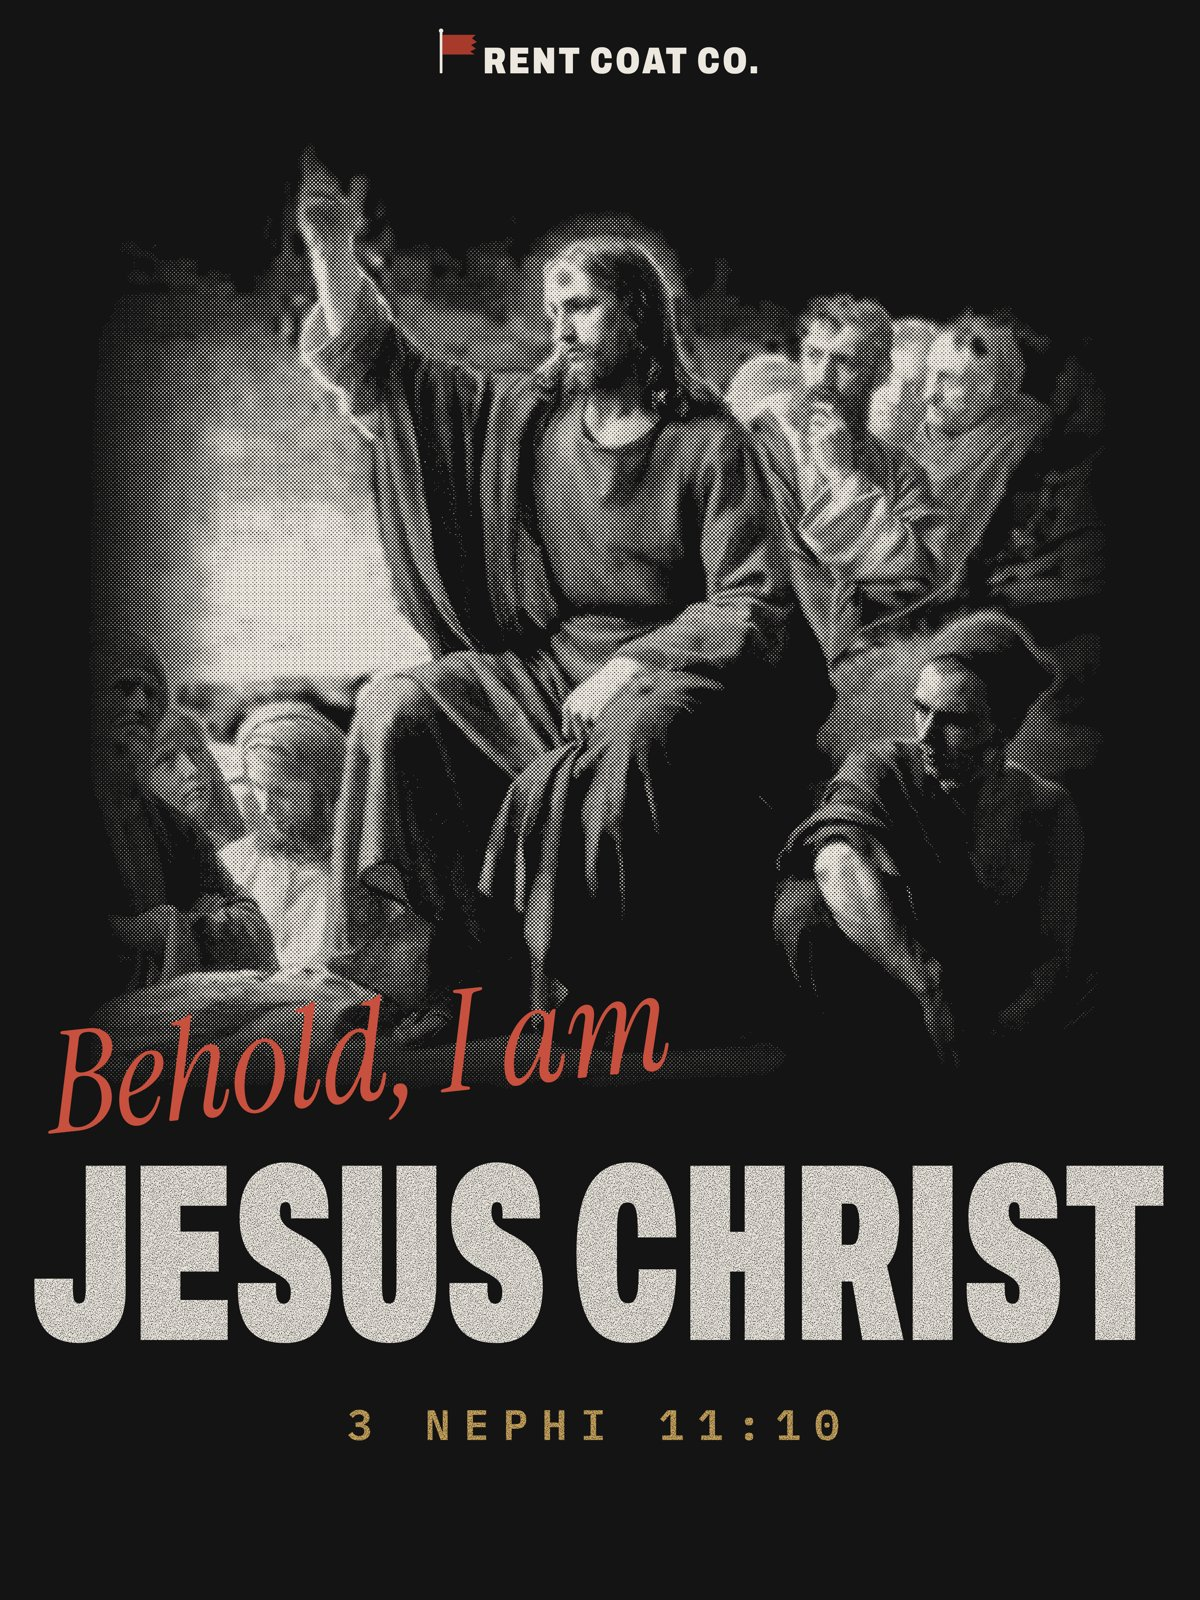
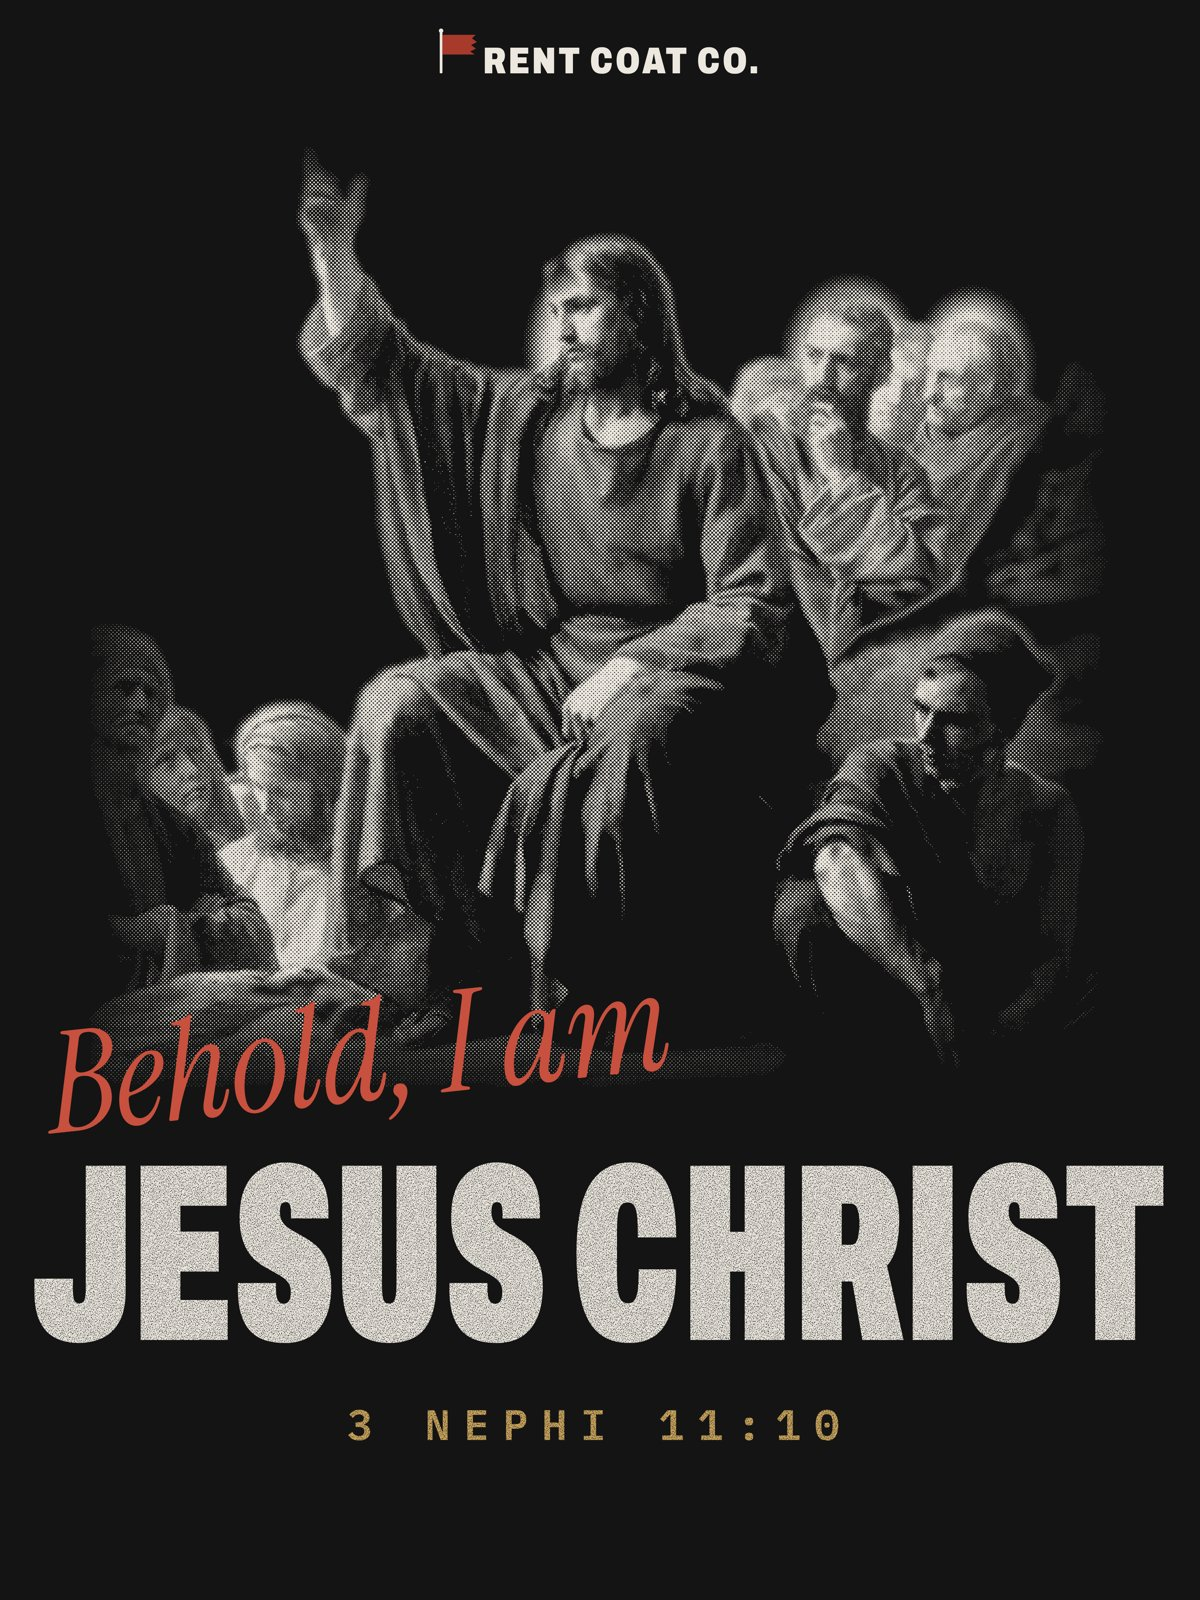
Behold tee: remove the halo and the pale glow, keep the faces
Claude-Session: https://claude.ai/code/session_011jKuvQ9dm2BwtGdrPWabnR

diff --git a/scripts/printful/halftone.py b/scripts/printful/halftone.py
@@ -25,6 +25,7 @@ def main():
     p.add_argument("--contrast", type=float, default=1.35)
     p.add_argument("--fade", type=float, default=0.18, help="edge fade as a share of each side")
     p.add_argument("--drop-sky", action="store_true", help="knock out pale blue sky so the figure stands on the shirt color")
+    p.add_argument("--protect", action="append", default=[], help="cx,cy,rx,ry in source pixels: an ellipse (a face) the sky knock-out must not touch")
     a = p.parse_args()
 
     box = tuple(int(v) for v in a.crop.split(","))
@@ -37,7 +38,19 @@ def main():
     if a.drop_sky:
         # Sky: bluer than it is red, and fairly light. Softened so the edge is not a hard cut-out.
         s = np.clip(((c[..., 2] - c[..., 0]) + 0.06) / 0.10, 0, 1) * np.clip((g - 0.55) / 0.12, 0, 1)
-        sky = np.asarray(Image.fromarray((s * 255).astype(np.uint8)).filter(ImageFilter.GaussianBlur(6)), np.float32) / 255
+        # Pale haze and halo glow: very light and nearly colorless. Skin and robes carry color, so they stay.
+        mx, mn = c.max(axis=2), c.min(axis=2)
+        sat = (mx - mn) / np.maximum(mx, 1e-3)
+        haze = np.clip((0.16 - sat) / 0.06, 0, 1) * np.clip((g - 0.70) / 0.08, 0, 1)
+        s = np.maximum(s, haze)
+        if a.protect:
+            k = a.width / (box[2] - box[0])
+            yy0, xx0 = np.mgrid[0:h, 0:a.width].astype(np.float32)
+            for e in a.protect:
+                cx, cy, rx, ry = (float(v) for v in e.split(","))
+                d = ((xx0 - (cx - box[0]) * k) / (rx * k)) ** 2 + ((yy0 - (cy - box[1]) * k) / (ry * k)) ** 2
+                s *= np.clip(d - 0.6, 0, 1)  # zero inside, ramping back to full at the ellipse edge
+        sky = np.asarray(Image.fromarray((s * 255).astype(np.uint8)).filter(ImageFilter.GaussianBlur(10)), np.float32) / 255
 
     # Tone: stretch to the full range, add contrast around the middle, then gamma.
     lo, hi = np.percentile(g, 2), np.percentile(g, 98)

diff --git a/art-sources/bloch/SOURCES.md b/art-sources/bloch/SOURCES.md
@@ -15,7 +15,7 @@ Used for design tests only.
 ## How the picture tees are made
 
 ```
-python3 scripts/printful/halftone.py art-sources/bloch/sermon-on-the-mount-1877.jpg print/review/src/bloch-sermon-halftone.png --crop 580,200,1320,900 --width 3400 --drop-sky --fade 0.14
+python3 scripts/printful/halftone.py art-sources/bloch/sermon-on-the-mount-1877.jpg print/review/src/bloch-sermon-halftone.png --crop 580,200,1320,900 --width 3400 --drop-sky --fade 0.14 --protect 942,368,36,52 --protect 1128,380,40,52 --protect 1215,380,35,45
 node scripts/printful/art-review.mjs behold
 ```
 
